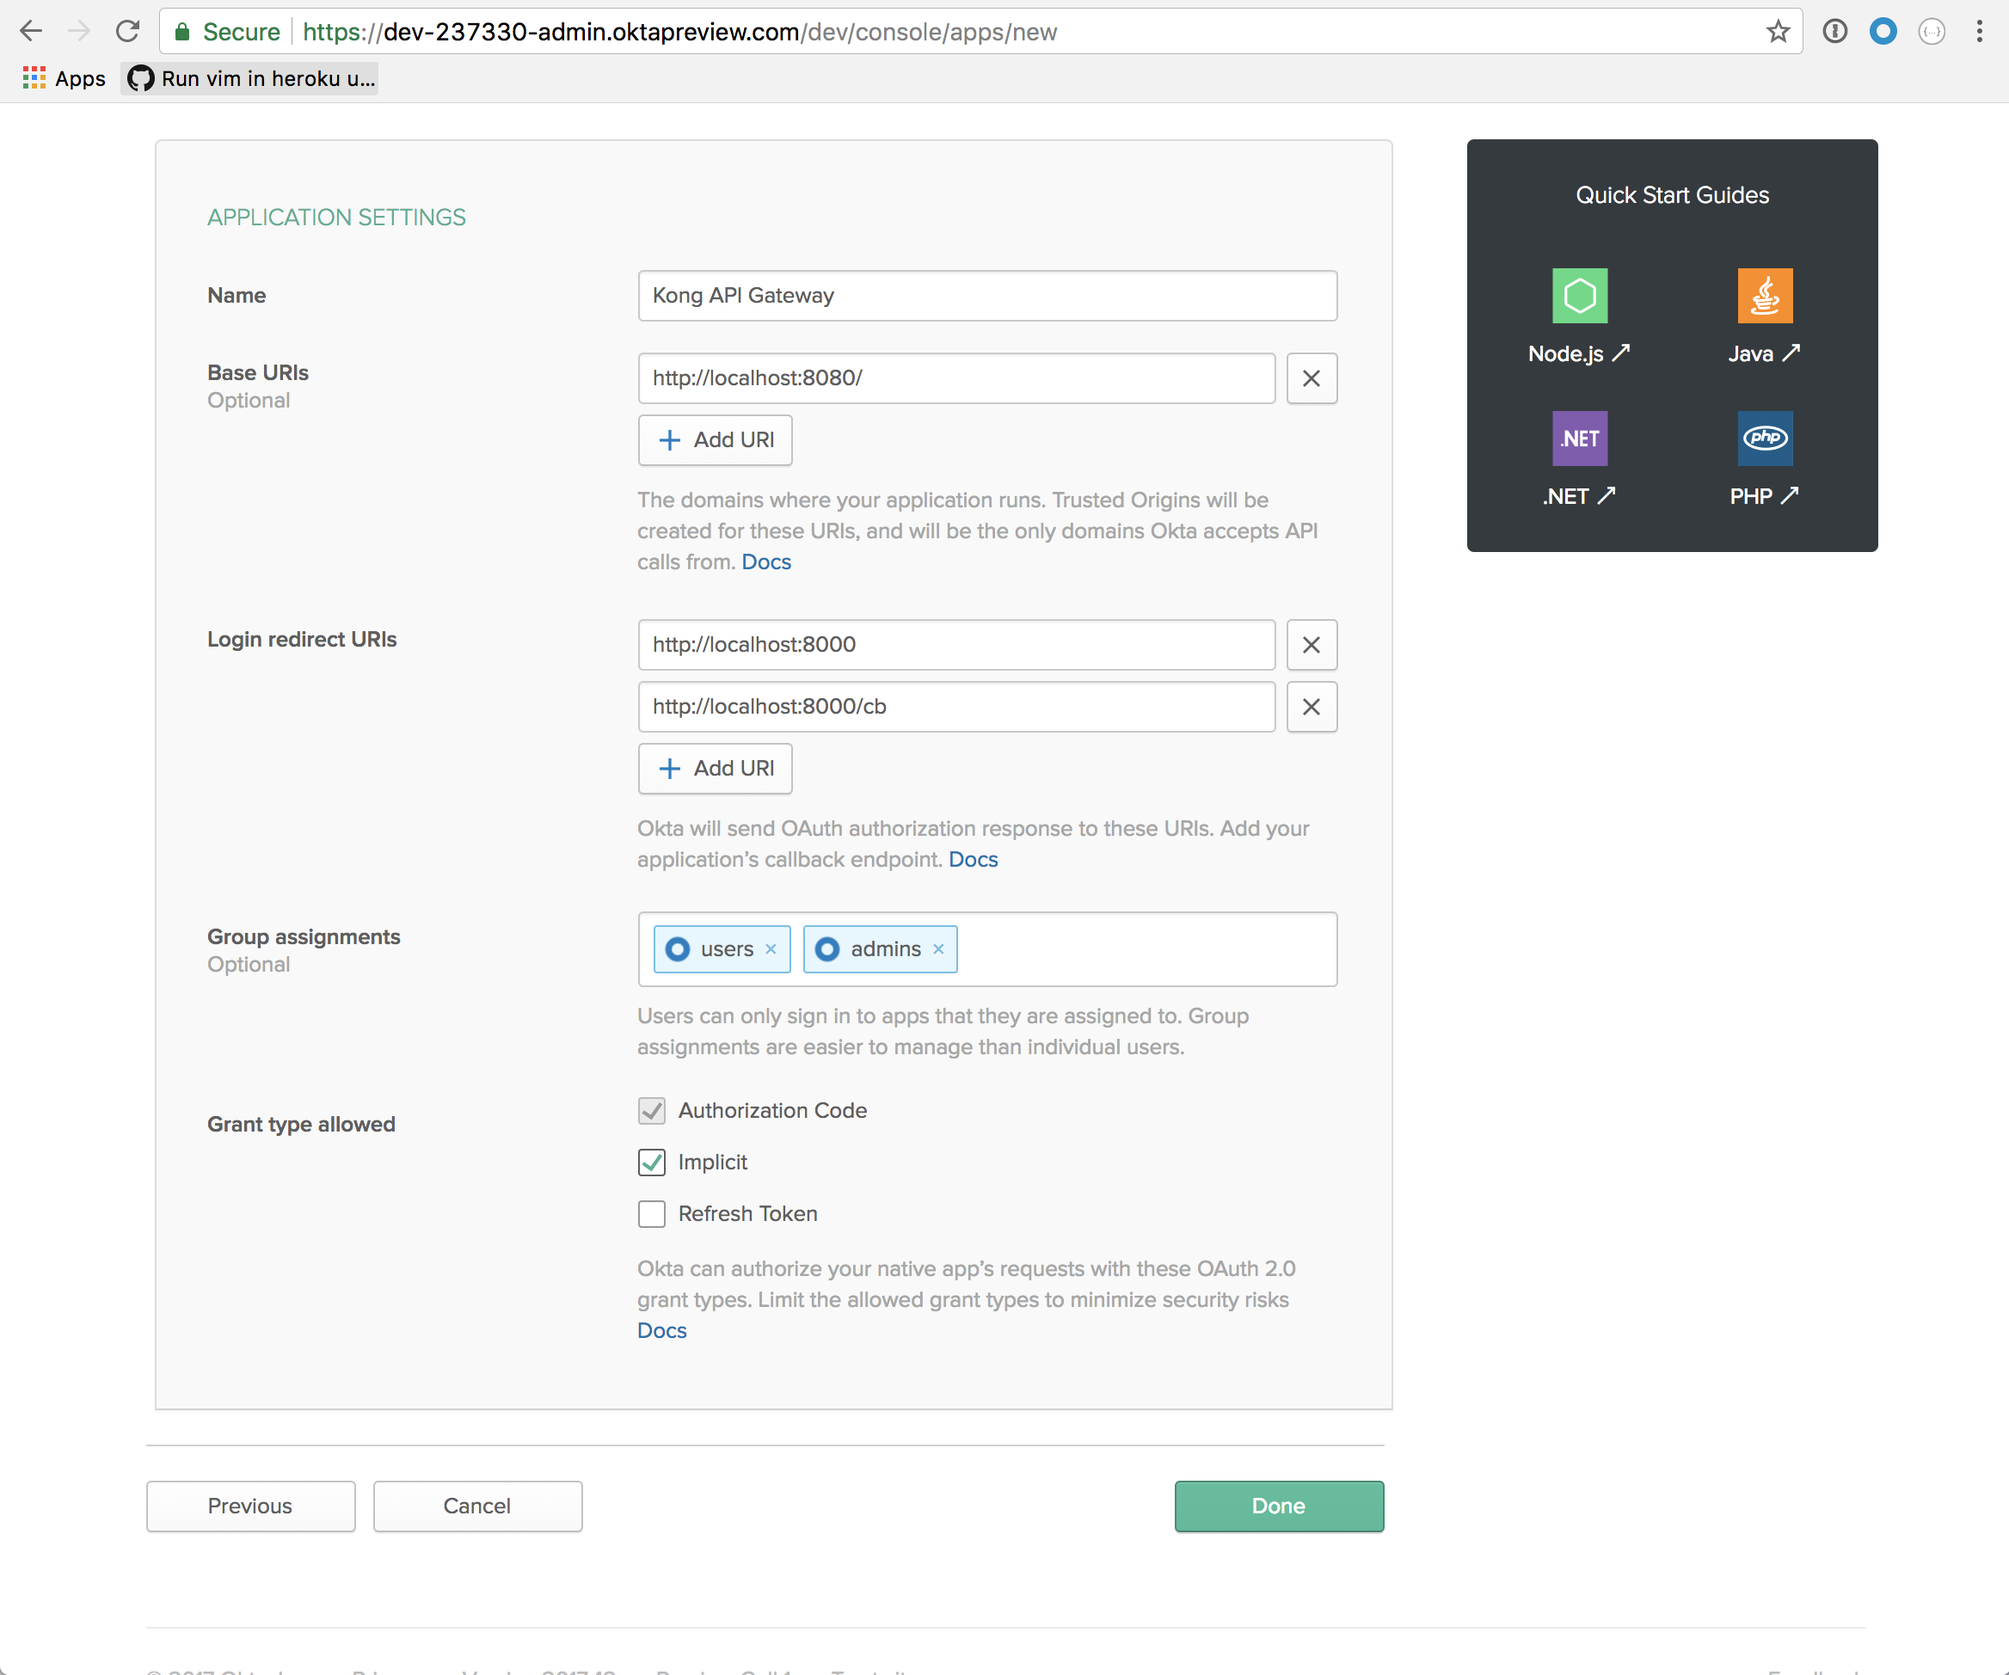
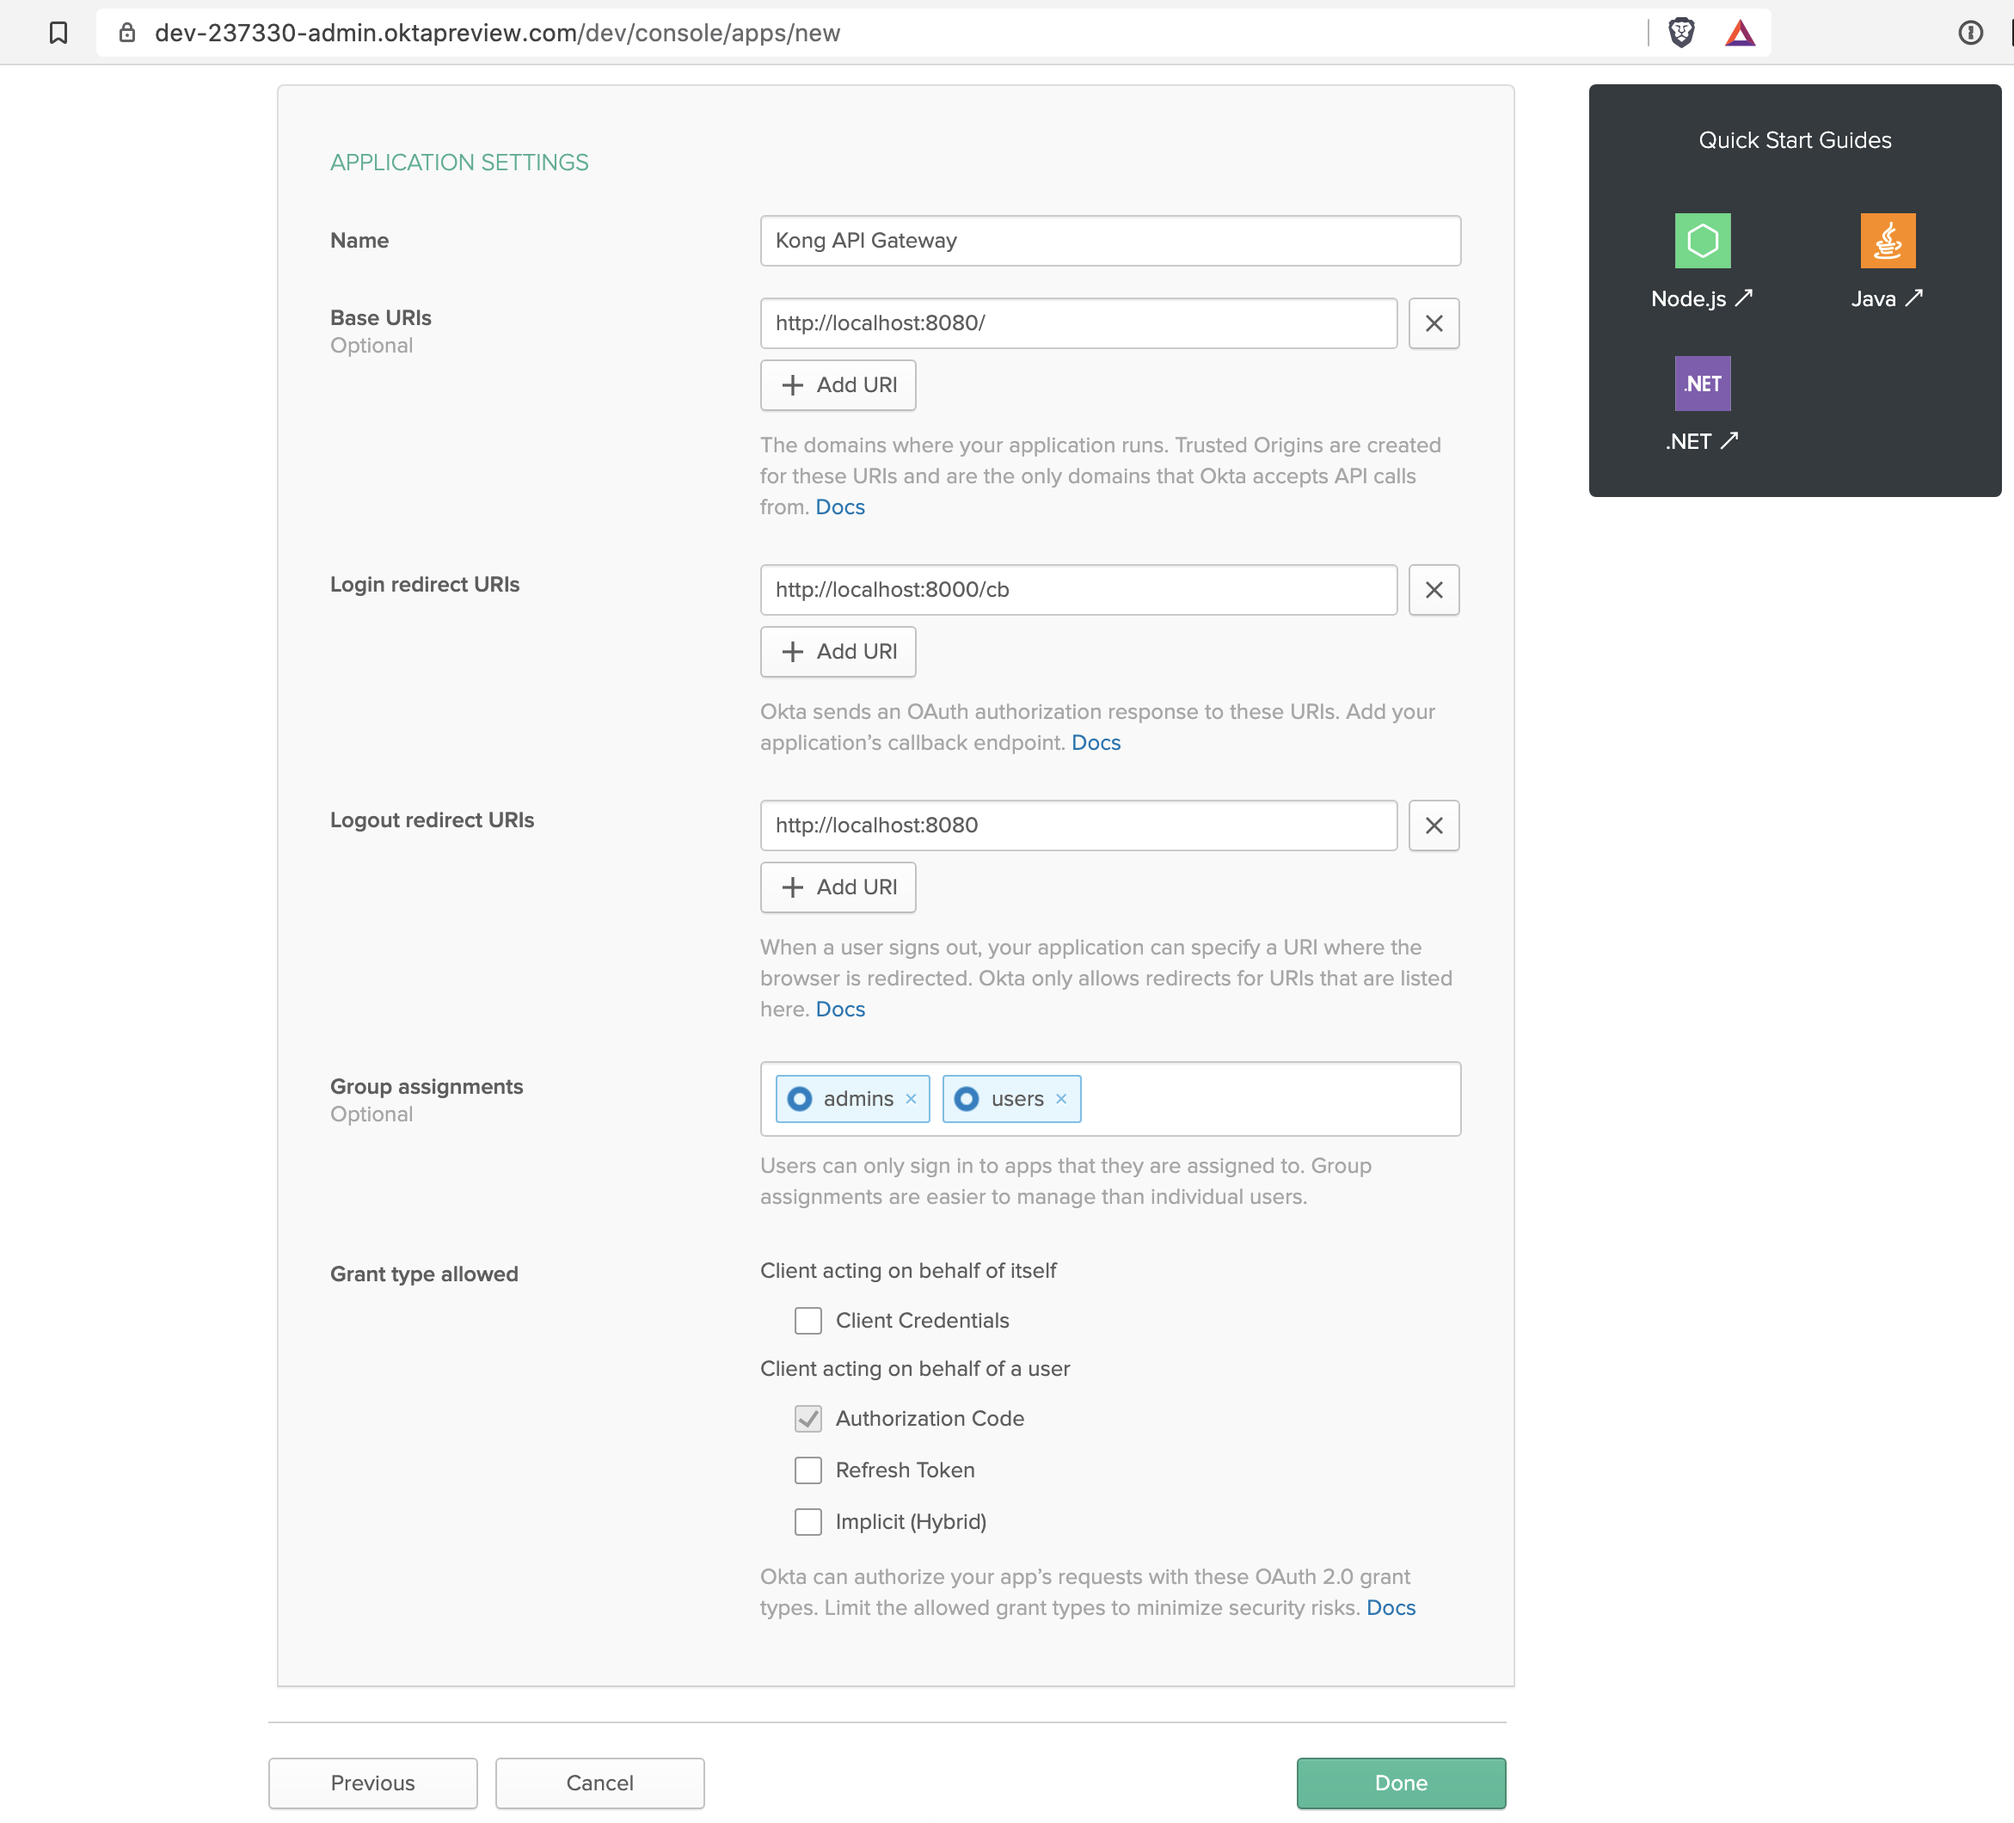
updated readme

diff --git a/README.md b/README.md
@@ -58,9 +58,8 @@ Fill out the form like so:
 
 The important things here are:
 
-* Enter `http://localhost:8000` and `http://localhost:8000/cb` as `Login redirect URIs`
-* Enter `users` and `groups` in the `Group assignments` field
-* Make sure `Implicit` is checked in the `Grant type allowed` section
+* Enter `http://localhost:8000/cb` as `Login redirect URIs`
+* Enter `users` and `admins` in the `Group assignments` field
 
 Click `Done`
 
@@ -113,14 +112,14 @@ other is the Spring Boot app that Kong will proxy to once the user has authentic
 
 We'll build the images and then run them in Docker containers.
 
-First, the Spring Boot app:
+First, the Spring Boot app Docker image:
 
 ```
 mvn clean install
 docker build -t header-origin-example .
 ```
 
-Then, the Kong API Gateway:
+Then, the Kong API Gateway Docker image:
 
 ```
 cd docker/okta-kong-oidc
@@ -131,7 +130,7 @@ docker build -t okta-kong-oidc .
 
 Grab a cup of coffee...
 
-Next, we'll create a Docker network for all our containers to use:
+When the images are created, we'll next create a private Docker network for all our containers to use:
 
 ```
 docker network create okta-kong-bridge
@@ -139,6 +138,9 @@ docker network create okta-kong-bridge
 
 **NOTE**: If you've gone through these steps previously, you can remove the network and start over with: 
 `docker network rm okta-kong-bridge`
+
+Containers using this network will be able to communicate with each other, but can block connections from outside 
+networks.
 
 Now, we'll create the containers:
 
@@ -226,19 +228,20 @@ Okta for authentication.
 The examples below use [HTTPie](https://httpie.org) - a modern curl replacement as well as
 [jq](https://stedolan.github.io/jq/) - a fast json parser
 
-First, you connect to the kong container:
+First, connect to the kong container:
 
 ```
 docker exec -it okta-kong-oidc /bin/bash
 ```
 
-Next, you setup routes so when a user connects to the gateway from the outside, it can direct the traffic to an inner
+Next, setup routes so when a user connects to the gateway from the outside, it can direct the traffic to an inner
 service.
 
 ```
 SERVICE_ID=`http -f :8001/services url=http://header-origin-example:8080 name=okta-secure | jq -r .id`
 http -f :8001/services/${SERVICE_ID}/routes paths=/
 ```
+
 This command uses Kong's Admin API, which runs on port `8001` by default. Notice how the `url` is connecting
 to the Spring Boot app which runs on port `8080` (within its container). Docker networking allows us to reference
 the name of one container from another - as long as they're all on the same network.
@@ -252,17 +255,18 @@ http -f :8001/plugins \
     name=oidc \
     config.client_id=<client id> \
     config.client_secret=<client secret> \
-    config.discovery=<issuer>/.well-known/openid-configuration
+    config.discovery=<okta base url>/oauth2/default/.well-known/openid-configuration
 ``` 
 
-This command configures the Kong OIDC plugin to connect to the Okta OIDC application you setup earlier.
+This command configures the Kong OIDC plugin to connect to the Okta OIDC application you set up earlier. Here's where
+you'll need the `client_id`, `client_secret` and your Okta base url (`https://dev-xxxx.okta.com`)
 
 ### Action!
 
-If all has gone well to this point, you have a Docker container running the Kong API Gateway and this Spring Boot
-application. Further, Kong is configured with the oidc plugin connected to Okta and to proxt requests to the Spring
-Boot app once you've authenticated. The Spring Boot app is *not* accessible directly from your host machine, but only
-from within the Docker container by Kong.
+If all has gone well to this point, you have a Docker container running the Kong API Gateway and another running the 
+Spring Boot application. Further, Kong is configured with the oidc plugin connected to Okta and to proxy requests to 
+the Spring Boot app once you've authenticated. The Spring Boot app is *not* accessible directly from your host 
+machine, but only from within the Docker container by Kong.
 
 Browse to: `http://localhost:8000`
 
